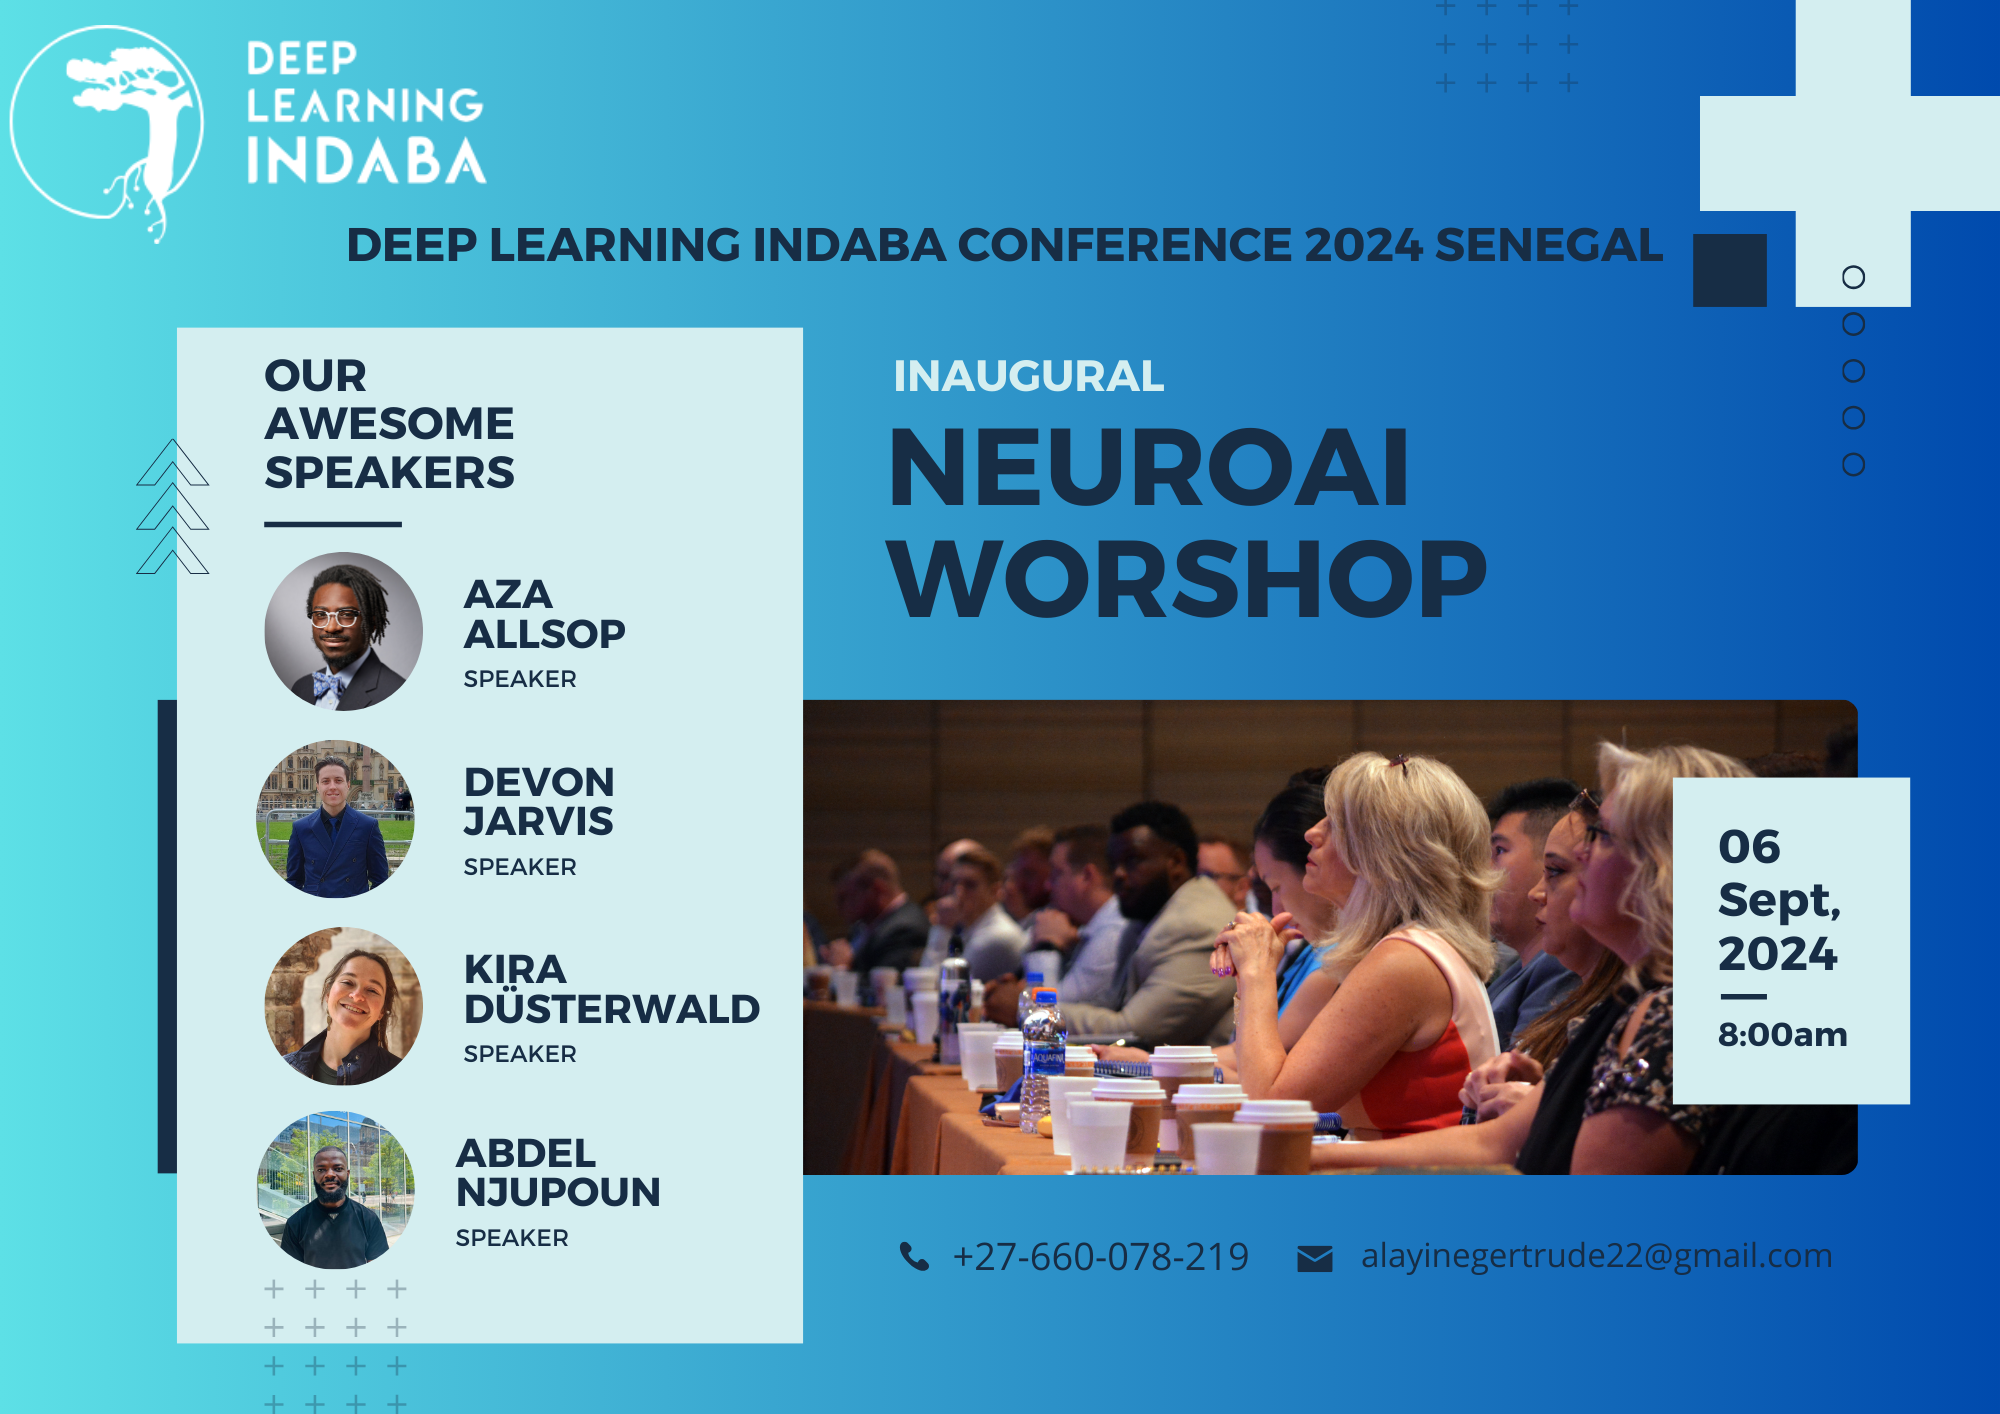
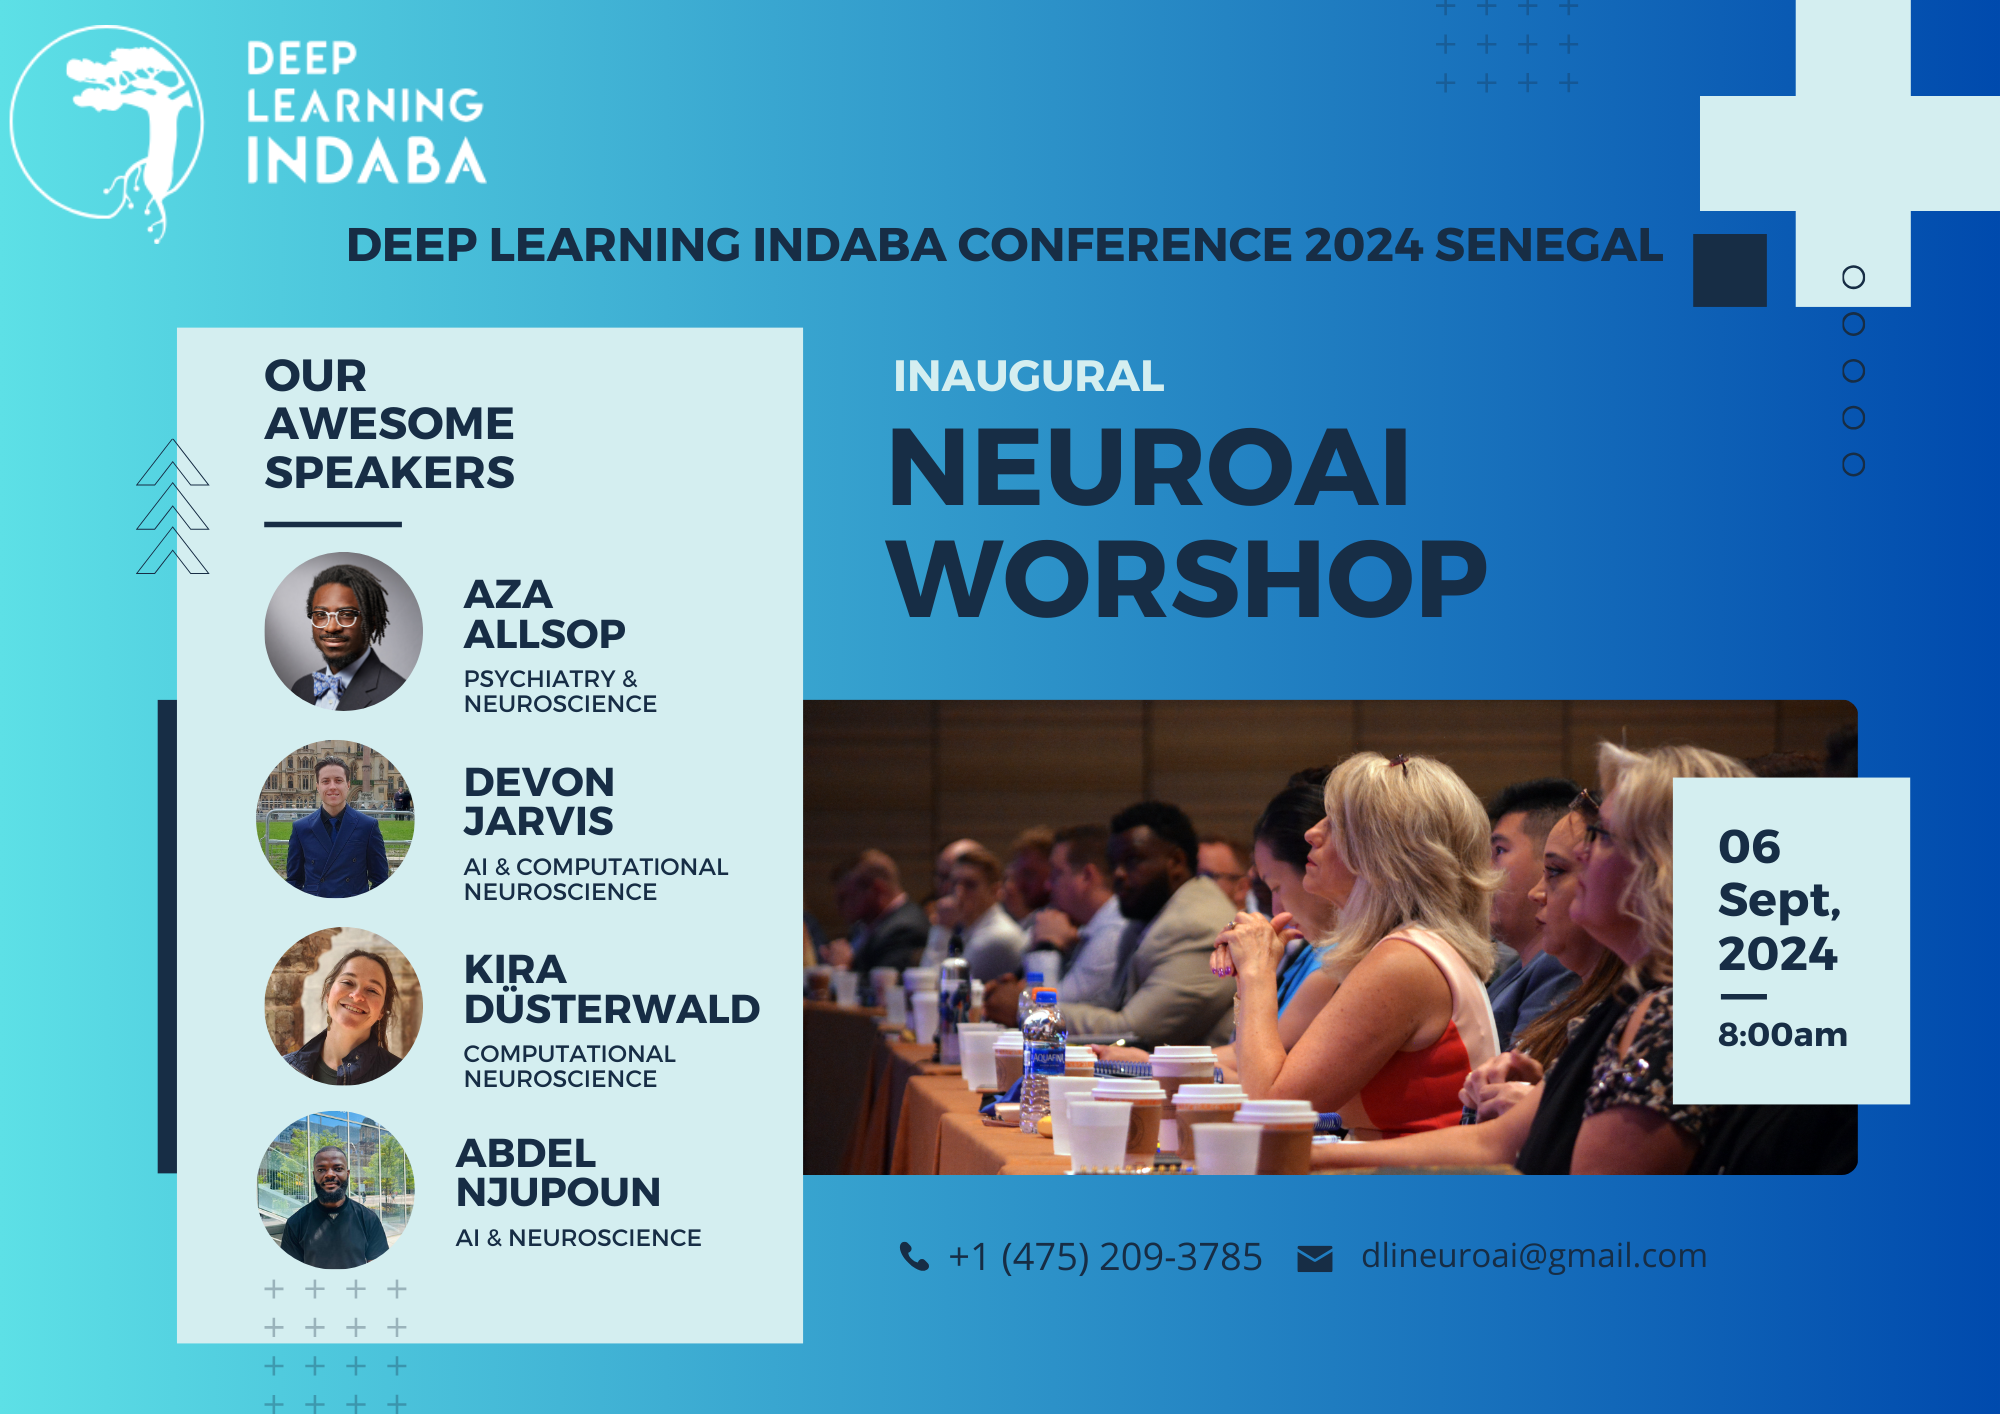
update commit

diff --git a/index.html b/index.html
@@ -115,7 +115,8 @@
               <div class="member-info">
                 <div class="member-info-content">
                   <h4><a href="AZA-details.html">AZA Allsop</a></h4>
-                  <span>Psychiatry and Neuroscience</span>
+                  <span>Yale University, AZA Lab</span>
+                  <span>(Psychiatry and Neuroscience)</span>
                 </div>
                 <div class="social">
                 <a href="https://scholar.google.com/citations?user=9e8cCcQAAAAJ&hl=en&oi=ao"><i class="fa fa-graduation-cap"></i></a>
@@ -133,7 +134,8 @@
               <div class="member-info">
                 <div class="member-info-content">
                   <h4><a href="Devon-details.html">Devon Jarvis</a></h4>
-                  <span>AI & Computational Neuroscience</span>
+                  <span>University of the Witwatersrand, Rail Lab</span>
+                  <span>(AI & Computational Neuroscience)</span>
                 </div>
                 <div class="social">
                   <a href="https://scholar.google.com/citations?user=MJjN5nEAAAAJ&hl=en&oi=sra"><i class="fa fa-graduation-cap"></i></a>
@@ -151,7 +153,8 @@
               <div class="member-info">
                 <div class="member-info-content">
                   <h4><a href="Kira-details.html">Kira Düsterwald</a></h4>
-                  <span>Computational Neuroscience</span>
+                  <span>University College London, Gatsby Computational Neuroscience Unit</span>
+                  <span>(Computational Neuroscience)</span>
                 </div>
                 <div class="social">
                   <a href="https://scholar.google.com/citations?user=U7NxV-MAAAAJ"><i class="fa fa-graduation-cap"></i></a>
@@ -169,7 +172,8 @@
               <div class="member-info">
                 <div class="member-info-content">
                   <h4><a href="Abdel-details.html">Abdel Njupoun</a></h4>
-                  <span>AI & Neuroscience</span>
+                  <span>Université de Montréal</span>
+                  <span>(AI & Neuroscience)</span>
                 </div>
                 <div class="social">
                 <a href="https://scholar.google.com/citations?user=SwrG9zQAAAAJ"><i class="fa fa-graduation-cap"></i></a>

diff --git a/AZA-details.html b/AZA-details.html
@@ -4,7 +4,7 @@
 <head>
   <meta charset="utf-8">
   <meta content="width=device-width, initial-scale=1.0" name="viewport">
-  <title>Speaker Details - TheEvent Bootstrap Template</title>
+  <title>Speaker Details</title>
   <meta content="" name="description">
   <meta content="" name="keywords">
 

diff --git a/Abdel-details.html b/Abdel-details.html
@@ -4,7 +4,7 @@
 <head>
   <meta charset="utf-8">
   <meta content="width=device-width, initial-scale=1.0" name="viewport">
-  <title>Speaker Details - TheEvent Bootstrap Template</title>
+  <title>Speaker Details</title>
   <meta content="" name="description">
   <meta content="" name="keywords">
 
